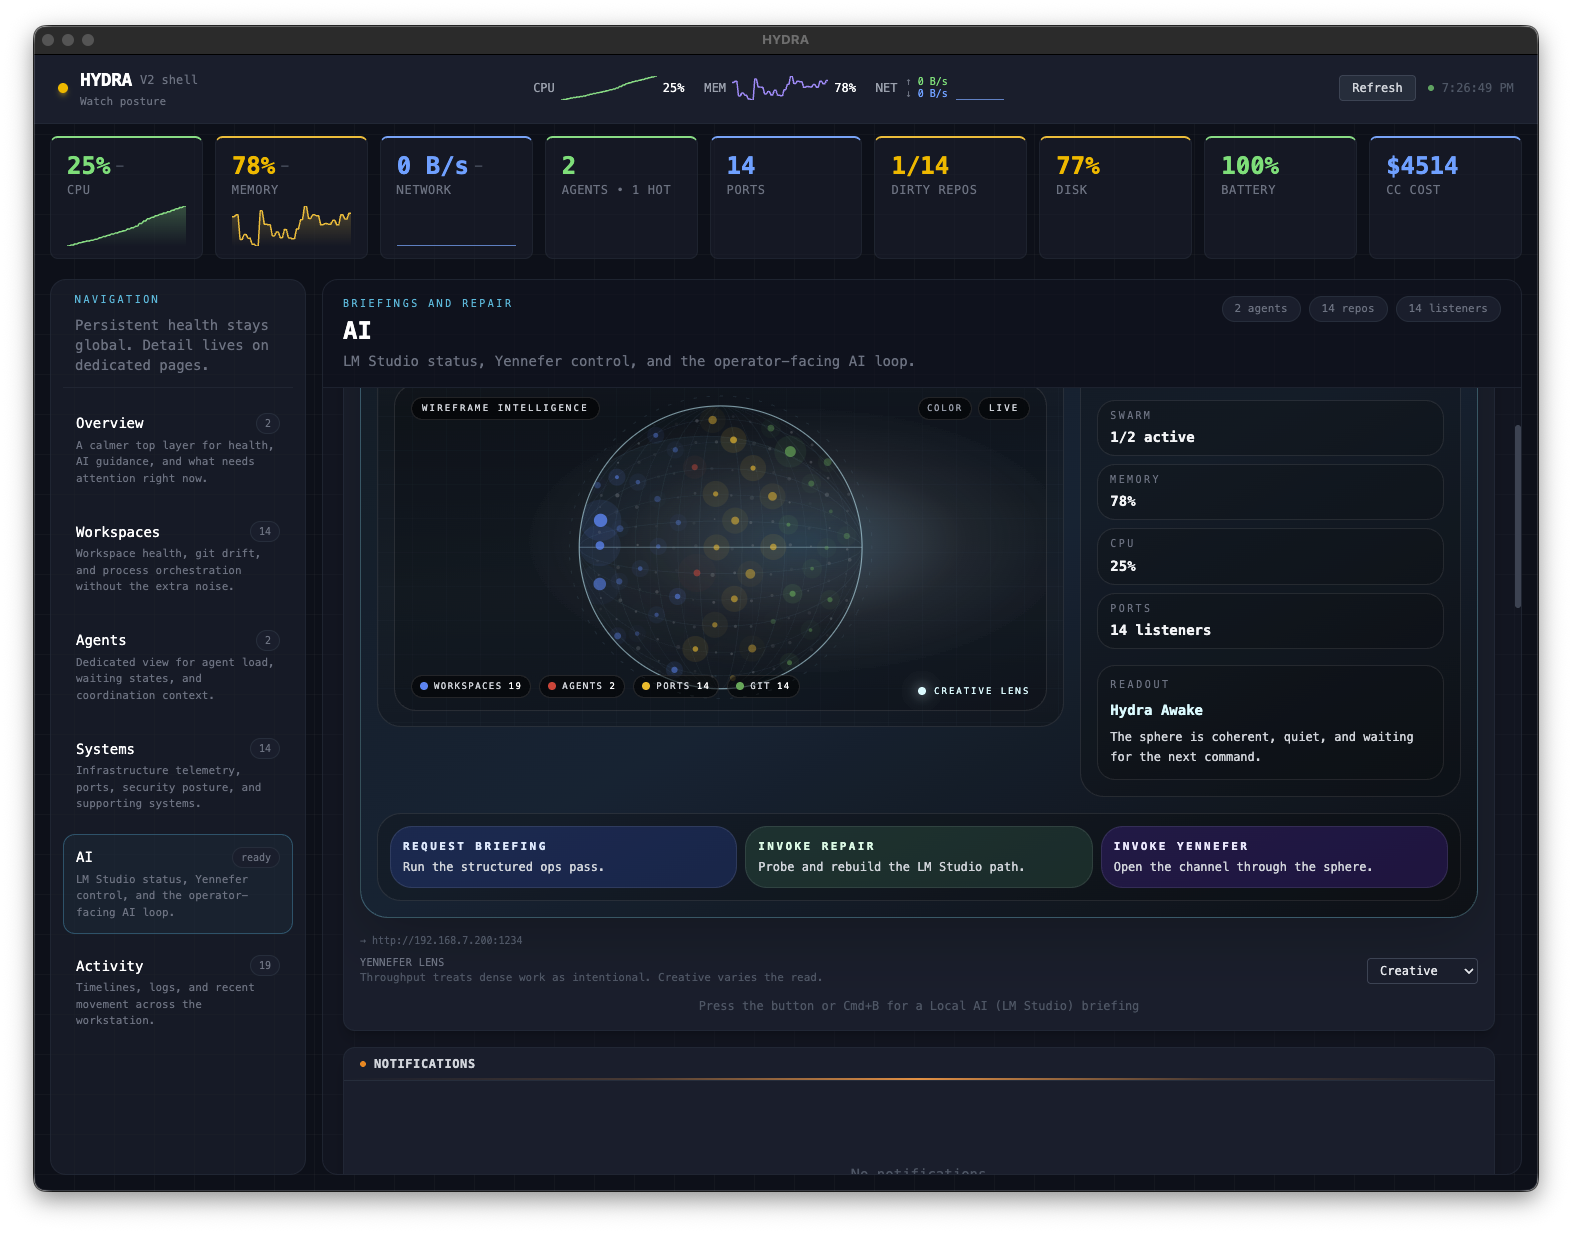
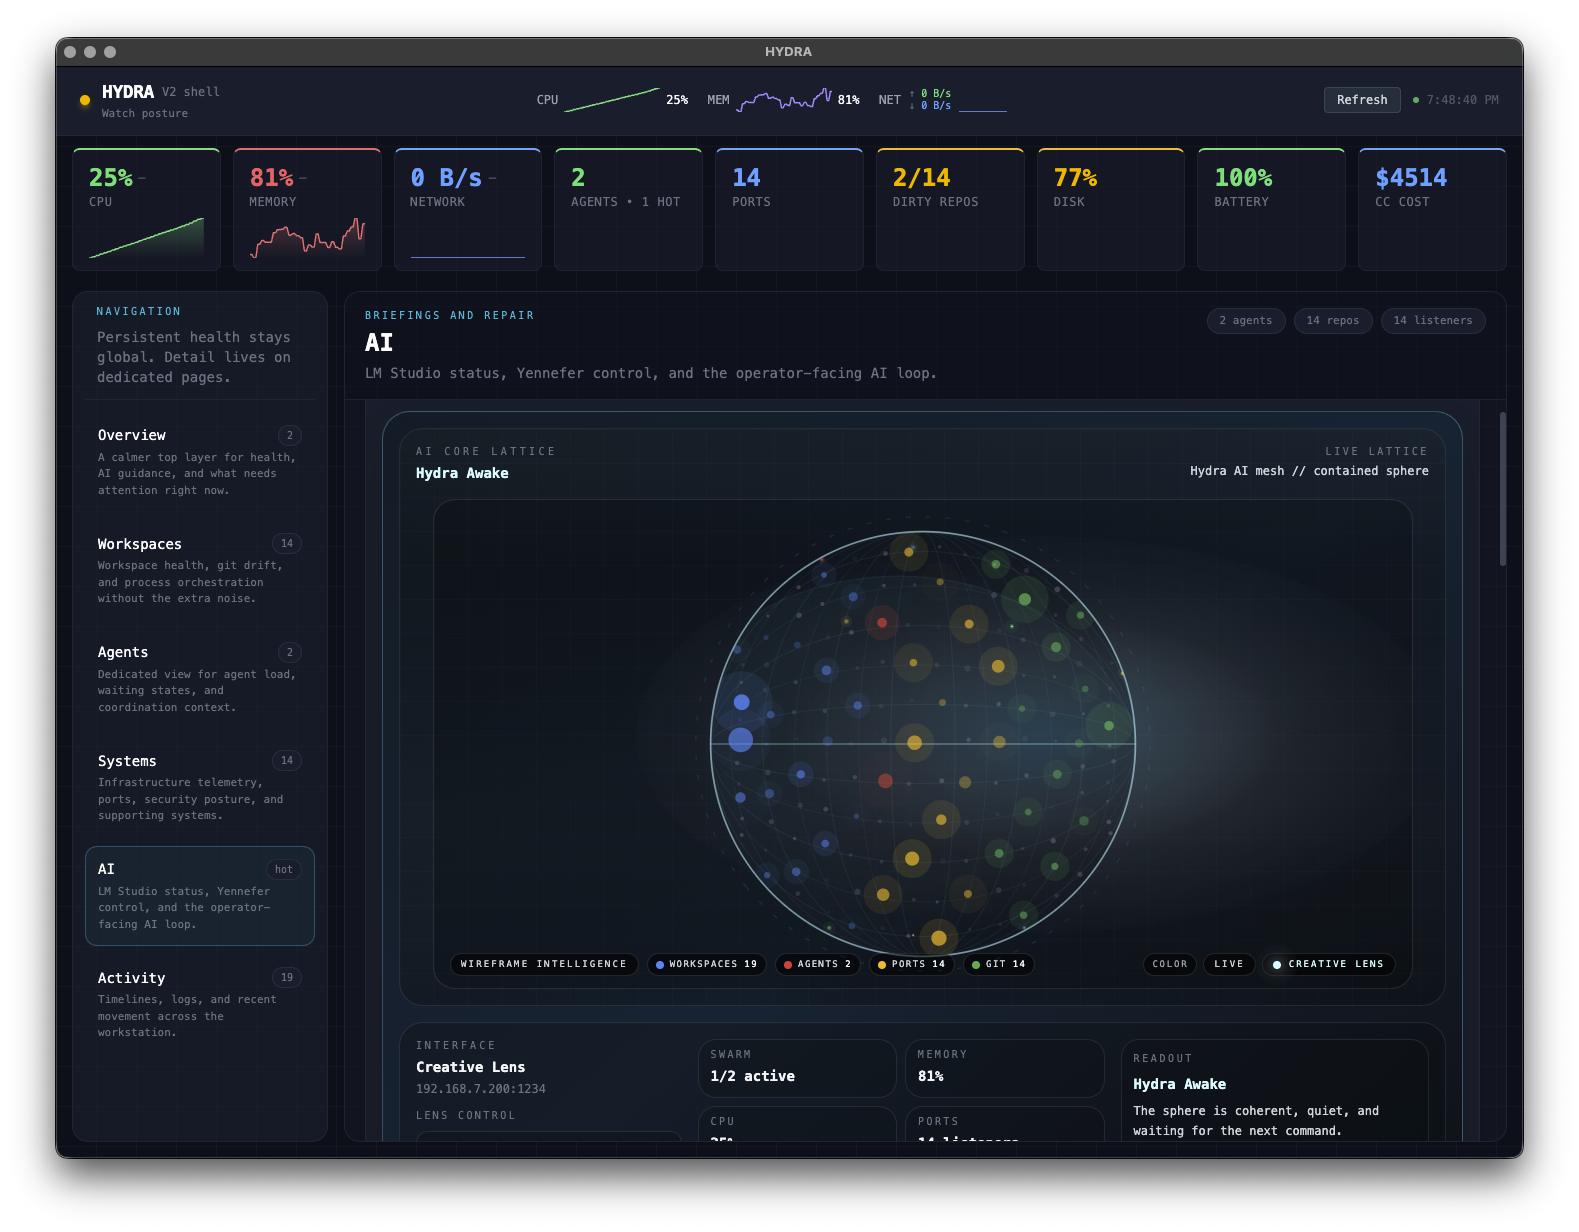
docs: add operator walkthrough and refresh v2 assets

diff --git a/docs/OPERATOR-WALKTHROUGH.md b/docs/OPERATOR-WALKTHROUGH.md
@@ -1,0 +1,103 @@
+# HYDRA Operator Walkthrough
+
+Hydra is a page-based desktop shell for watching local AI systems, repo drift, agents, and machine posture without collapsing all of it into one screaming dashboard. This guide covers the current shipped surface in `v2.1.2`.
+
+## Shell Layout
+
+Hydra keeps a few things visible no matter which page you are on:
+
+- The top header shows live CPU, memory, network, and a manual `Refresh` action.
+- The scorecards strip keeps machine posture visible: CPU, memory, network, agents, ports, dirty repos, disk, battery, and Claude Code cost.
+- The left navigation rail is the main contract of the app. If a page has its own destination in the nav, it should not also be squatting on another page.
+
+## Pages
+
+### Overview
+
+Use `Overview` when you want the fastest read on what changed and where to drill in next.
+
+- Shows a calmer summary layer instead of every panel at once.
+- Keeps attention on hotspots, active agents, repo drift, and the next useful page to open.
+
+### Workspaces
+
+Use `Workspaces` for repos, process groups, and operational cleanup.
+
+- `Git Status` turns dirty repos and remote drift into actions like `Stash`, `Fetch`, `Pull`, and `Copy Path`.
+- `Command Center` can be sorted by workspace, health, CPU, or memory depending on how you want to triage live processes.
+
+### Agents
+
+Use `Agents` when you want the real roster, not a vague badge.
+
+- Tracks detected agent sessions such as Codex, Claude Code, Cursor, and other supported tools.
+- Shows status, workspace/context matching, and process handles so you can tell what is active, idle, or waiting.
+
+### Systems
+
+Use `Systems` for supporting infrastructure and machine-adjacent telemetry.
+
+- Network, ports, security posture, and Claude Code usage all live here.
+- `CC Usage` supports `Refresh Live` to rescan Claude session logs when cached cost data is stale.
+
+### AI
+
+Use `AI` for the local-model control loop.
+
+- The `Live Lattice` maps `Workspaces`, `Agents`, `Ports`, and `Git` onto the sphere.
+- The interface tray below the lattice shows the LM Studio endpoint, lens control, swarm counts, CPU, memory, ports, and current readout.
+- The action dock gives you `Request Briefing`, `Invoke Repair`, and `Invoke Yennefer` without leaving the page.
+
+### Activity
+
+Use `Activity` when you need history instead of current posture.
+
+- Logs, timeline entries, and git history live here.
+- This page is for “what happened?” rather than “what should I do right now?”
+
+## Core Actions
+
+### Refresh
+
+- Click `Refresh` in the top-right header to force a new monitor pass.
+- The tray menu also exposes `Refresh Now`.
+
+### Command Palette
+
+- `Cmd/Ctrl+K` opens the command palette.
+- Hydra can surface quick actions such as killing a listening port or freezing/thawing a workspace process group.
+
+### Briefing And Yennefer
+
+- `Cmd/Ctrl+B` requests a Local AI briefing.
+- `Cmd/Ctrl+Y` invokes Yennefer directly.
+- The `Yennefer Lens` controls tone:
+  - `adaptive` for balanced judgment
+  - `throughput` for dense multi-agent sessions
+  - `creative` for looser synthesis
+  - `strict` for harsher operational scrutiny
+
+### LM Studio Repair
+
+- `Invoke Repair` probes the configured LM Studio endpoint and local/LAN fallbacks.
+- When Hydra finds a healthy server, it persists the repaired URL back into config.
+- For remote Windows GPU hosts, LM Studio still needs network serving enabled and the firewall open on the chosen port.
+
+## Persistence And Config
+
+Hydra keeps local state instead of pretending everything is ephemeral:
+
+- SQLite stores snapshots, alerts, briefings, notifications, posture history, and timeline events.
+- Config lives at `~/.config/hydra/config.json`.
+- `.env` can override local development settings such as `LM_STUDIO_URL`.
+
+## Recommended Flow
+
+If you are using Hydra as intended, the normal loop is:
+
+1. Start in `Overview`.
+2. Follow the signal to `Workspaces`, `Agents`, `Systems`, or `AI`.
+3. Use the page-local actions instead of trying to solve everything from the top layer.
+4. Come back to `Overview` when you want posture again instead of detail.
+
+That is the whole point of the v2 shell. The side nav is not decorative. It is how the app avoids turning back into a giant panel graveyard.

diff --git a/README.md b/README.md
@@ -4,10 +4,12 @@ Hydra is a desktop ops shell for developers running AI agents, local services, a
 
 Latest release: `v2.1.2`
 
-Version 2.1.2 keeps the Live Lattice sphere contained, makes the AI page scale like a real interface instead of a flexbox accident, and tightens the operational plumbing around agent detection and CI.
+Version 2.1.2 keeps the Live Lattice sphere contained, refocuses the AI page into a dedicated local-AI instrument, and tightens the operational plumbing around agent detection and CI.
 
 ![Hydra v2 Overview](docs/screenshots/dashboard-v2-overview.png)
 ![Hydra v2 AI Page](docs/screenshots/dashboard-v2-ai.png)
+
+Operator walkthrough: [docs/OPERATOR-WALKTHROUGH.md](docs/OPERATOR-WALKTHROUGH.md)
 
 ## See The Shell
 
@@ -21,11 +23,12 @@ The overview screen is Hydra's calmer control layer: persistent scorecards acros
 
 ### AI Page
 
-The AI page is where Hydra shows off the Live Lattice visualizer. The contained `2:1` sphere keeps the wireframe globe inside its frame while the side readout, Yennefer lens, LM Studio endpoint, and action dock stay readable around it.
+The AI page is now intentionally singular: the Live Lattice gets the full runway, the interface tray sits directly beneath it, and the page stays focused on the local model loop instead of repeating panels that already live elsewhere in the shell.
 
 - The Live Lattice maps real workstation entities to the globe: `Workspaces`, `Agents`, `Ports`, and `Git` each get their own node color
 - The labeled legend makes the color story readable instead of leaving you to guess what the dots mean
 - `Request Briefing`, `Invoke Repair`, and `Invoke Yennefer` stay attached to the visualizer so the page behaves like an instrument, not just a decoration
+- The LM Studio endpoint, lens control, live swarm metrics, and readout now live in the interface tray beneath the globe instead of squeezing the lattice sideways
 
 ## Navigation Flow
 
@@ -41,7 +44,8 @@ Hydra's biggest v2 shift is structural, not cosmetic. The app now behaves like a
 ## What Changed In v2.1.2
 
 - Re-contained the Live Lattice sphere inside a responsive `2:1` frame so it scales down cleanly and stays inside its rounded border
-- Kept the lattice overlays, metrics rail, and action dock inside the AI panel without pushing `Notifications`, `Agents`, `Timeline`, or `Command Center` off-screen
+- Refocused the AI page around the LM Studio panel instead of duplicating `Notifications`, `Agents`, `Timeline`, and `Command Center` inside the same surface
+- Kept the lattice overlays, interface tray, and action dock inside the AI panel without pushing neighboring content off-screen
 - Fixed the Agents sidebar badge so it reflects the detected roster instead of only counting waiting agents
 - Tightened agent detection to ignore Codex helper processes and `CursorUIViewService` false positives
 - Fixed GitHub Actions test runs on Node 20 by rebuilding `better-sqlite3` for the Node runtime before Vitest executes

diff --git a/CHANGELOG.md b/CHANGELOG.md
@@ -4,7 +4,7 @@
 
 ### Product
 - Re-contained the Live Lattice AI sphere inside a responsive `2:1` frame so the globe scales with the AI page instead of overflowing into neighboring panels
-- Rebalanced the AI page panel sizing so `Notifications`, `Agents`, `Timeline`, and `Command Center` stay visible without the old greedy-height behavior
+- Refocused the AI page around the LM Studio surface instead of duplicating `Notifications`, `Agents`, `Timeline`, and `Command Center` inside the same view
 
 ### Reliability
 - Fixed the Agents sidebar badge so it reflects the detected roster instead of only showing queued agents
@@ -15,6 +15,7 @@
 
 ### Docs
 - Updated the README to reflect the shipped Live Lattice patch line and current release state
+- Added an operator walkthrough covering pages, actions, shortcuts, and the current local-AI workflow
 
 ## v2.1.1 — 2026-03-15
 
